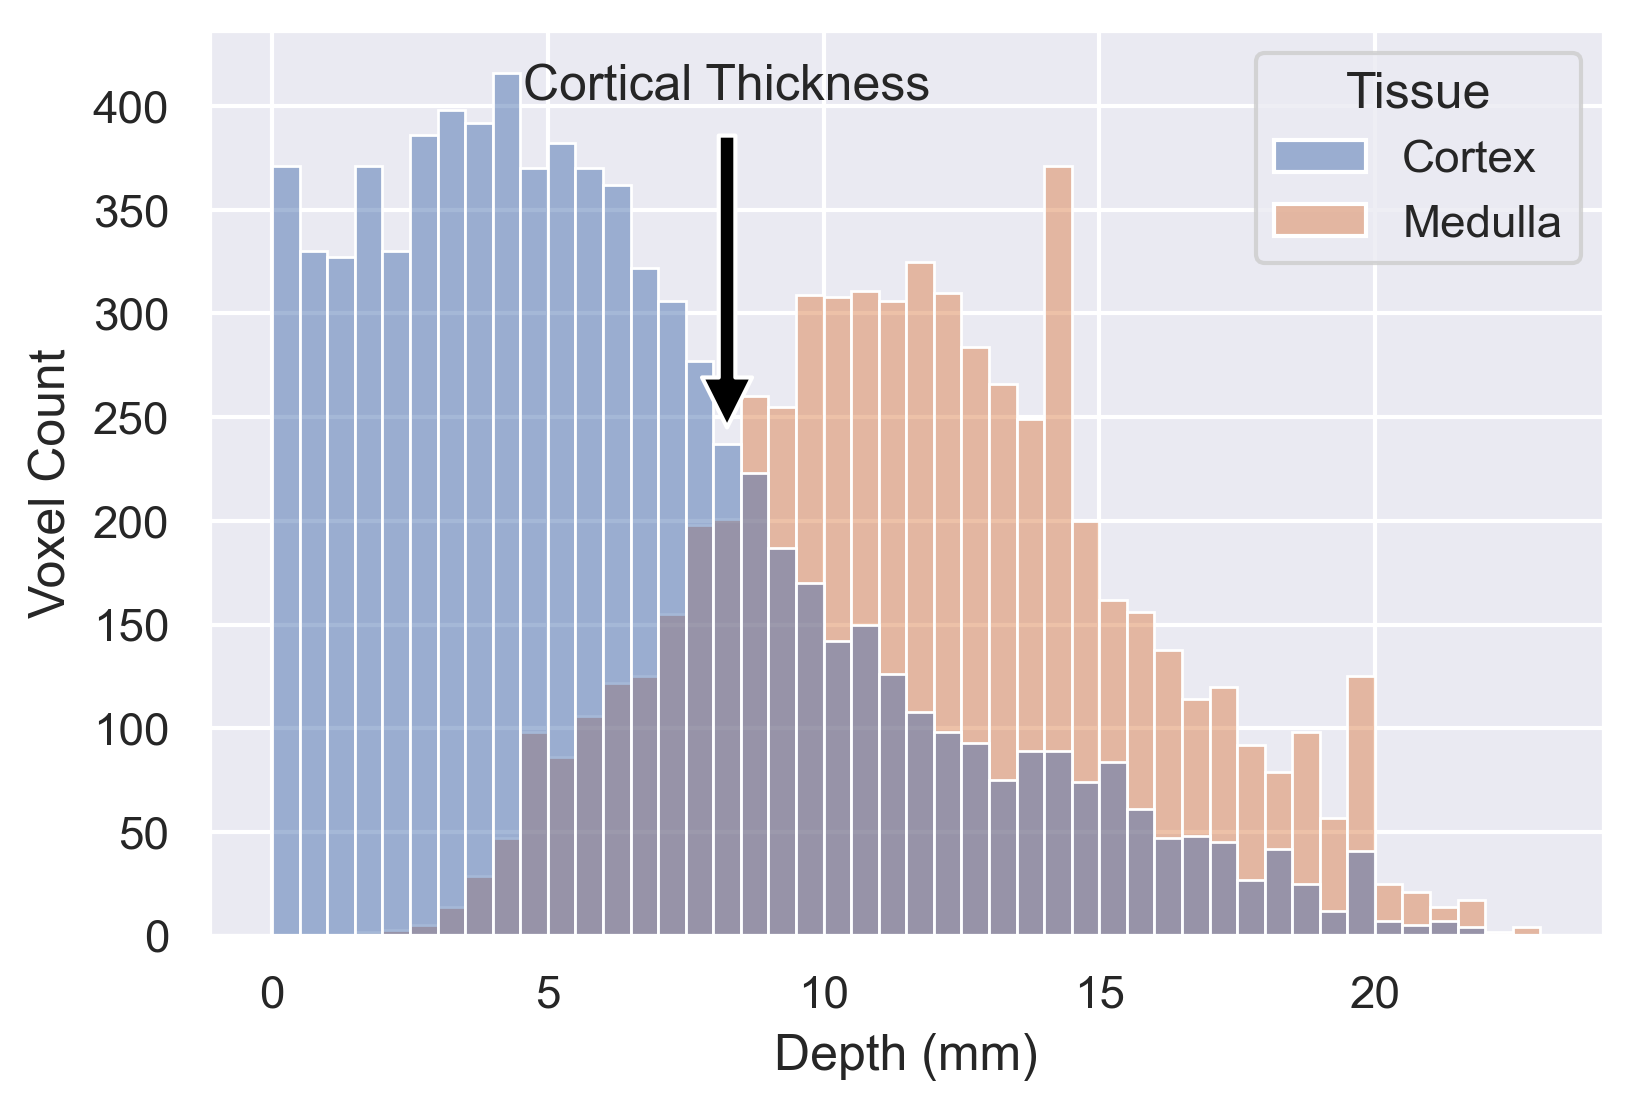
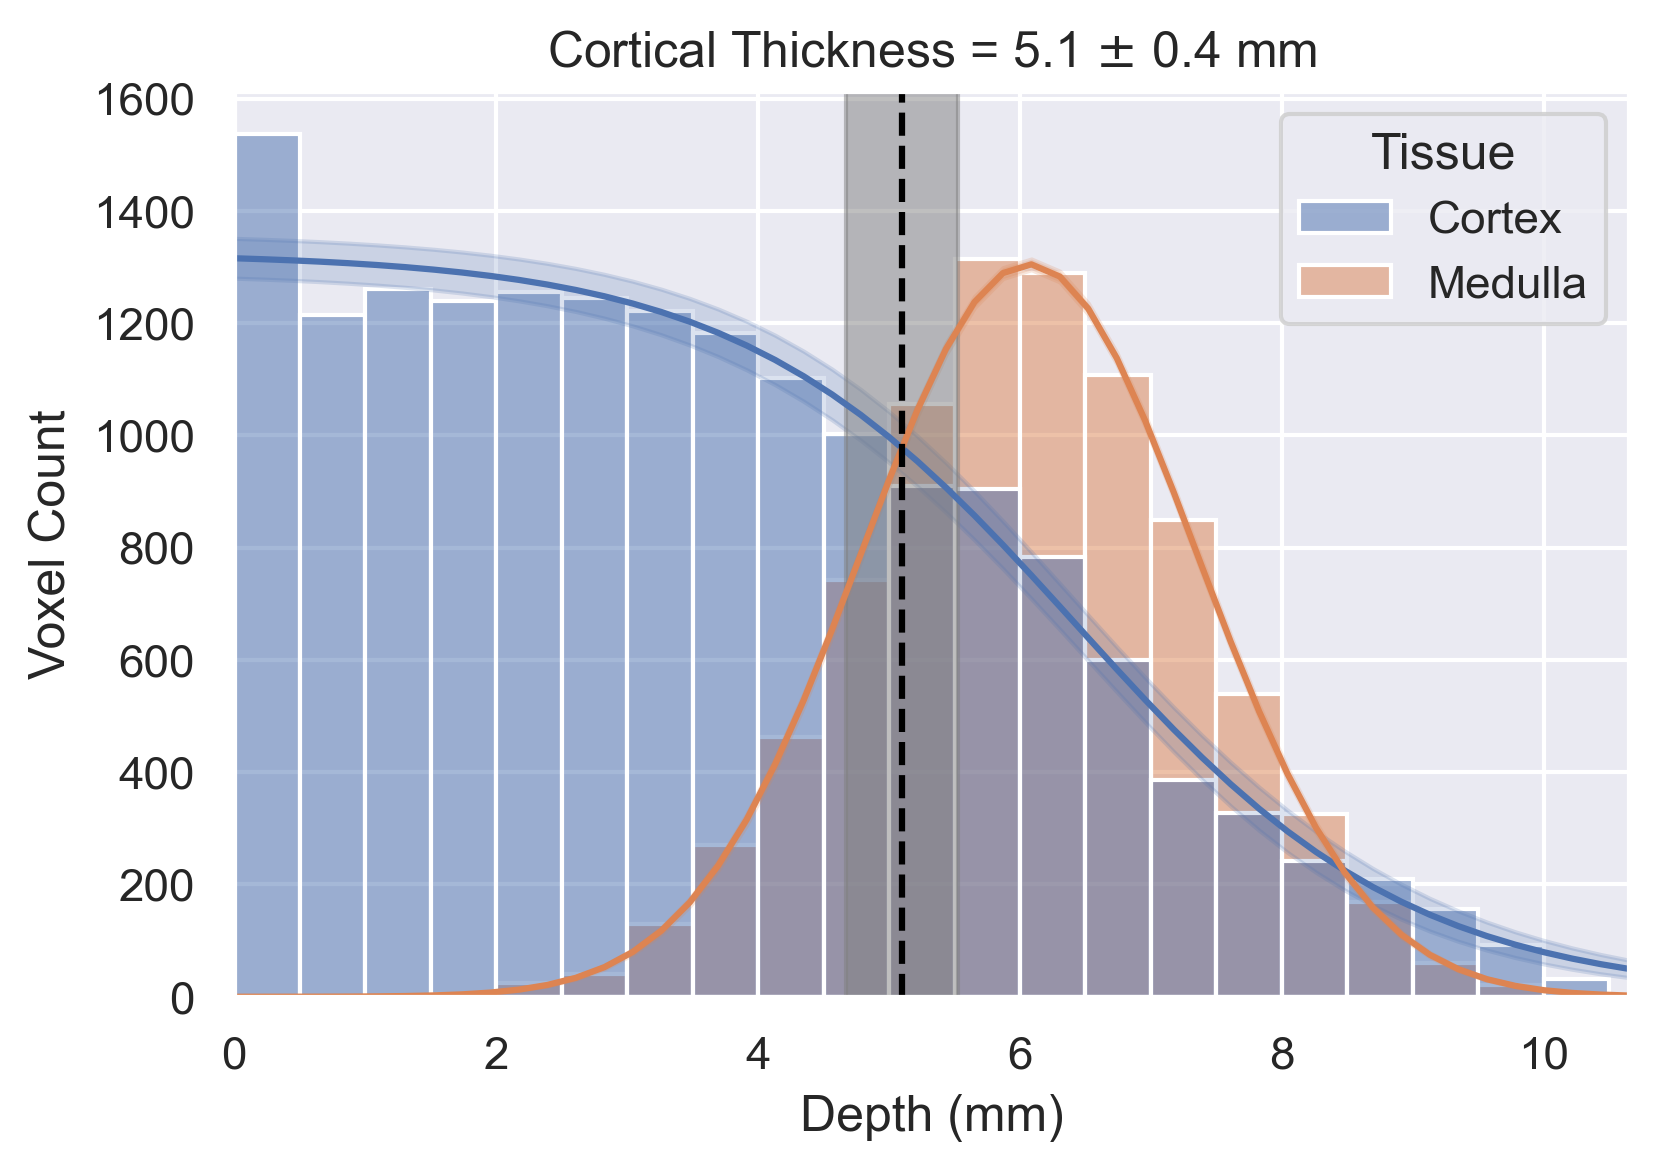
Updated cortical thickness figure to include uncertainty.

diff --git a/paper/paper.md b/paper/paper.md
@@ -46,16 +46,16 @@ The motivation of `3DQLayers` was to address these limitations of TLCO to provid
 
 The pipeline for defining the layers from the whole kidney mask is outlined in \autoref{fig:flowchart}. Pre-processing steps first fill in the holes in the kidney mask caused by cysts, as the surface of a cyst is not characteristic of the surface of the kidney. Next, the voxel-based representation of the mask is converted to a smoothed mesh-based representation of the kidneys, the distance from the centre of each voxel to the surface of the mesh is calculated to produce a depth map [@dawson-haggerty_trimesh_2023]. Tissue adjacent to the renal pelvis that is not representative of the medulla is then excluded from layer-based analysis. This is achieved by automatically segmenting the renal pelvis then calculating the distance from each voxel to the renal pelvis as described above. Those voxels closer than a specified threshold, typically 10 mm, are excluded from the depth map. Finally, a layer image is generated by quantising the depth map to a desired layer thickness, typically 1 mm.
 
-The layer image and quantitative images are resampled to the same spatial resolution using `NiBabel` [@brett_nipy/nibabel_2019], to allow each layer to be used as an ROI to interrogate each qMR image with statistical measures (e.g. median, standard deviation and kurtosis) across the depth of the kidney. The gradient of the central layers can be calculated to estimate the CMG in qMRI metrics. These metrics can be computed for the left and right kidney separately, or analysed in a combined manner. Additionally, if the renal cortex and medulla ROIs are available, the distribution of tissue types across layer depth can be explored. As the layers are generated from a structural image rather than the quantitative map, using `3DQLayers` stipulates no requirements on quantitative map acquisition, unlike TLCO.
+The layer image and quantitative images are resampled to the same spatial resolution using `NiBabel` [@brett_nipy/nibabel_2019], to allow each layer to be used as an ROI to interrogate each qMR image with statistical measures (e.g. median, standard deviation and kurtosis) across the depth of the kidney. The gradient of the central layers can be calculated to estimate the CMG in qMRI metrics. These metrics can be computed for the left and right kidney separately, or analysed in a combined manner. Additionally, if the renal cortex and medulla ROIs are available, the distribution of tissue types across layer depth can be explored and an estimate of average cortical thickness calculated. As the layers are generated from a structural image rather than the quantitative map, using `3DQLayers` stipulates no requirements on quantitative map acquisition, unlike TLCO.
 
 An object-oriented interface is provided to allow end users to simply generate layers and apply these to qMR images. [Documentation](https://qlayers.readthedocs.io/) is provided to guide users through installation via `PyPI`, `conda` or from [source code on GitHub](https://github.com/alexdaniel654/qlayers); it also includes tutorials and an API reference. An automated test suite with high coverage provides users with confidence in the stability of `3DQLayers` and that there will be no unexpected changes to results unless highlighted in the change-log.
 
 ## Usage Examples
 \autoref{fig:egfr_gradients} shows the use of `3DQLayers` to measure different gradients of R~2~^\*^ in a heathy volunteer with normal renal function and a patient with impaired renal function (an estimated glomerular filtration rate (eGFR) of above 90 ml/min/1.73m^2^ measured from blood samples is considered in the healthy range [@stevens_assessing_2006]). This replicates results shown using TLCO, with a lower gradient in patients compared to healthies, however `3DQLayers` controls for kidney size resulting in the gradient being measured in quantitative units of Hz/mm rather than Hz/layer as in TLCO, thus increasing generalisability.
 
-\autoref{fig:cortical_thickness} shows how `3DQLayers` can be used in combination with cortex and medulla tissue ROIs to analyse the distribution of voxel counts of each tissue as a function of layer depth of the kidney. Here cortex and medulla ROIs are initially generated using a Gaussian mixture model to segment a T~1~-weighted structural image followed by manual ROI correction. From this, average renal cortical thickness can be defined from the depth at which the voxel distribution crosses from cortex to medulla. Cortical thickness has been hypothesised as a potential biomarker of renal disease [@yamashita_value_2015]. 
+\autoref{fig:cortical_thickness} shows how `3DQLayers` can be used in combination with cortex and medulla tissue ROIs to analyse the distribution of voxel counts of each tissue as a function of layer depth of the kidney. Here cortex and medulla ROIs are initially generated using a Gaussian mixture model to segment a T~1~-weighted structural image followed by manual ROI correction. From this, average renal cortical thickness can be defined from the depth at which the voxel distribution crosses from cortex to medulla. Cortical thickness has been hypothesised as a potential biomarker of renal disease [@yamashita_value_2015; @korkmaz_clinical_2017]. 
 
-`3DQLayers` can also be used to analyse ex-vivo kidneys imaged outside the body. \autoref{fig:exvivo_profiles} shows example quantitative maps acquired from a kidney removed for transplant but subsequently deemed unsuitable and the associated layer profiles. \autoref{fig:roi_layers_corr} compares the results of tissue ROI based analysis and layer-based analysis in fifteen transplant kidneys. A significant correlation between outer layers and the cortex, and inner layers and the medulla was shown across all quantitative mapping techniques and a significant correlation between cortico-medullary ratio and layer gradient was shown for T~1~, T~2~, T~2~ ^\*^ and Magnetisation Transfer Ratio (MTR) mapping.
+`3DQLayers` can also be used to analyse *ex-vivo* kidneys imaged outside the body. \autoref{fig:exvivo_profiles} shows example quantitative maps acquired from a kidney removed for transplant but subsequently deemed unsuitable and the associated layer profiles. \autoref{fig:roi_layers_corr} compares the results of tissue ROI based analysis and layer-based analysis in fifteen transplant kidneys. A significant correlation between outer layers and the cortex, and inner layers and the medulla was shown across all quantitative mapping techniques and a significant correlation between cortico-medullary ratio and layer gradient was shown for T~1~, T~2~, T~2~ ^\*^ and Magnetisation Transfer Ratio (MTR) mapping.
 
 # Figures
 ![a) A schematic of the kidneys showing the renal cortex and medullary pyramids. b) A T~1~-weighted structural MR image of the abdomen showing the kidneys with the renal cortex appearing as a light band on the outer edge of the kidney and the medullary pyramids as darker patches on the inner portion of the kidneys. \label{fig:renal_structure}](kidney_overview.png){ width=90% }
@@ -66,9 +66,9 @@ An object-oriented interface is provided to allow end users to simply generate l
 
 ![Exploring the distribution of tissue types through the kidney to measure cortical thickness. \label{fig:cortical_thickness}](cortical_thickness.png){ width=50% }
 
-![Example quantitative maps and associated layer profiles when `3DQLayers` is applied to ex-vivo transplant kidneys. Uncertainty shading shows the 95% confidence interval of each layer. \label{fig:exvivo_profiles}](example_profiles.png)
+![Example quantitative maps and associated layer profiles when `3DQLayers` is applied to *ex-vivo* transplant kidneys. Uncertainty shading shows the 95% confidence interval of each layer. \label{fig:exvivo_profiles}](example_profiles.png)
 
-![ Agreement between tissue ROI-based measures and analogous layer-based measures shown for fifteen ex-vivo transplant kidneys for each qMRI alongside the Pearsons correlation coefficient ($\rho$). * represents a _p_-value between 0.05 and 0.01, ** between 0.01 and 0.001, and *** < 0.001. a) Plots the median within each tissue ROI (cortex or medulla semi-automatically defined) against the equivalent layers (outer layers and inner layers respectively as highlighted in \autoref{fig:exvivo_profiles}) b) Shows the cortico-medullary ratio (calculated by dividing the median within the cortex ROI by the median within the medullary ROI) against central layer gradient profiles calculated using `3DQLayers`. \label{fig:roi_layers_corr}](roi_layers_corr.png)
+![ Agreement between tissue ROI-based measures and analogous layer-based measures shown for fifteen *ex-vivo* transplant kidneys for each qMRI alongside the Pearsons correlation coefficient ($\rho$). * represents a _p_-value between 0.05 and 0.01, ** between 0.01 and 0.001, and *** < 0.001. a) Plots the median within each tissue ROI (cortex or medulla semi-automatically defined) against the equivalent layers (outer layers and inner layers respectively as highlighted in \autoref{fig:exvivo_profiles}) b) Shows the cortico-medullary ratio (calculated by dividing the median within the cortex ROI by the median within the medullary ROI) against central layer gradient profiles calculated using `3DQLayers`. \label{fig:roi_layers_corr}](roi_layers_corr.png)
 
 # Acknowledgements
 We acknowledge the funding support of the ADMIRE project funded through Kidney Research UK (`KS_RP_002_20210111`), and the UKRIN_MAPS project funded by the Medical Research Council (`MR/R02264X/1`), as well as the NIHR Nottingham Biomedical Research Centre during the genesis of this project.
